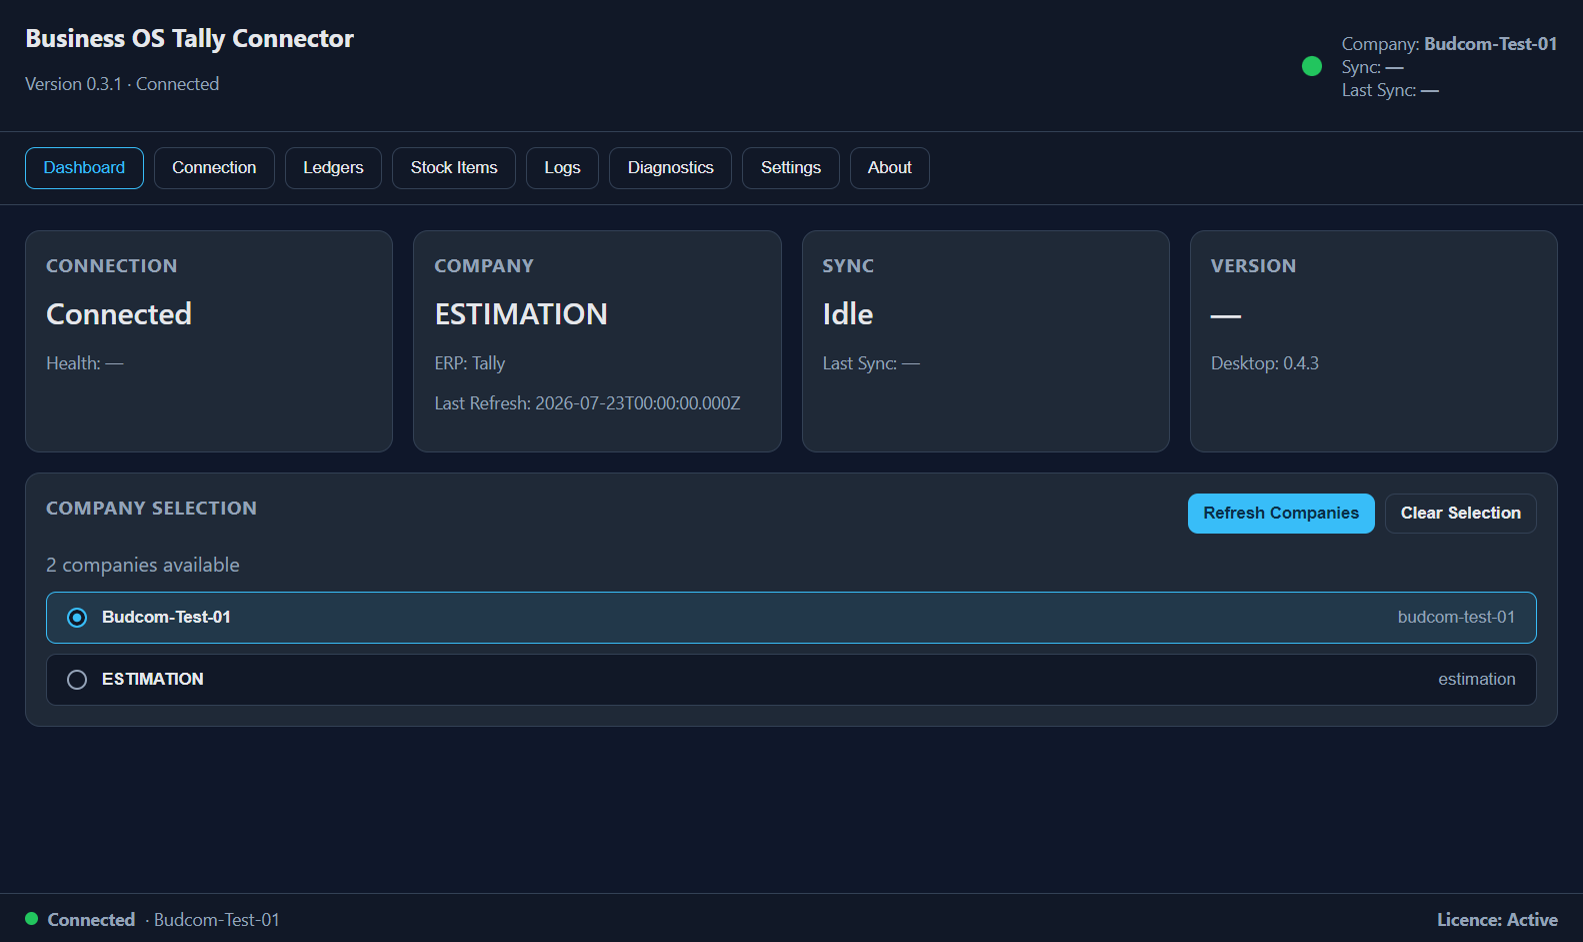
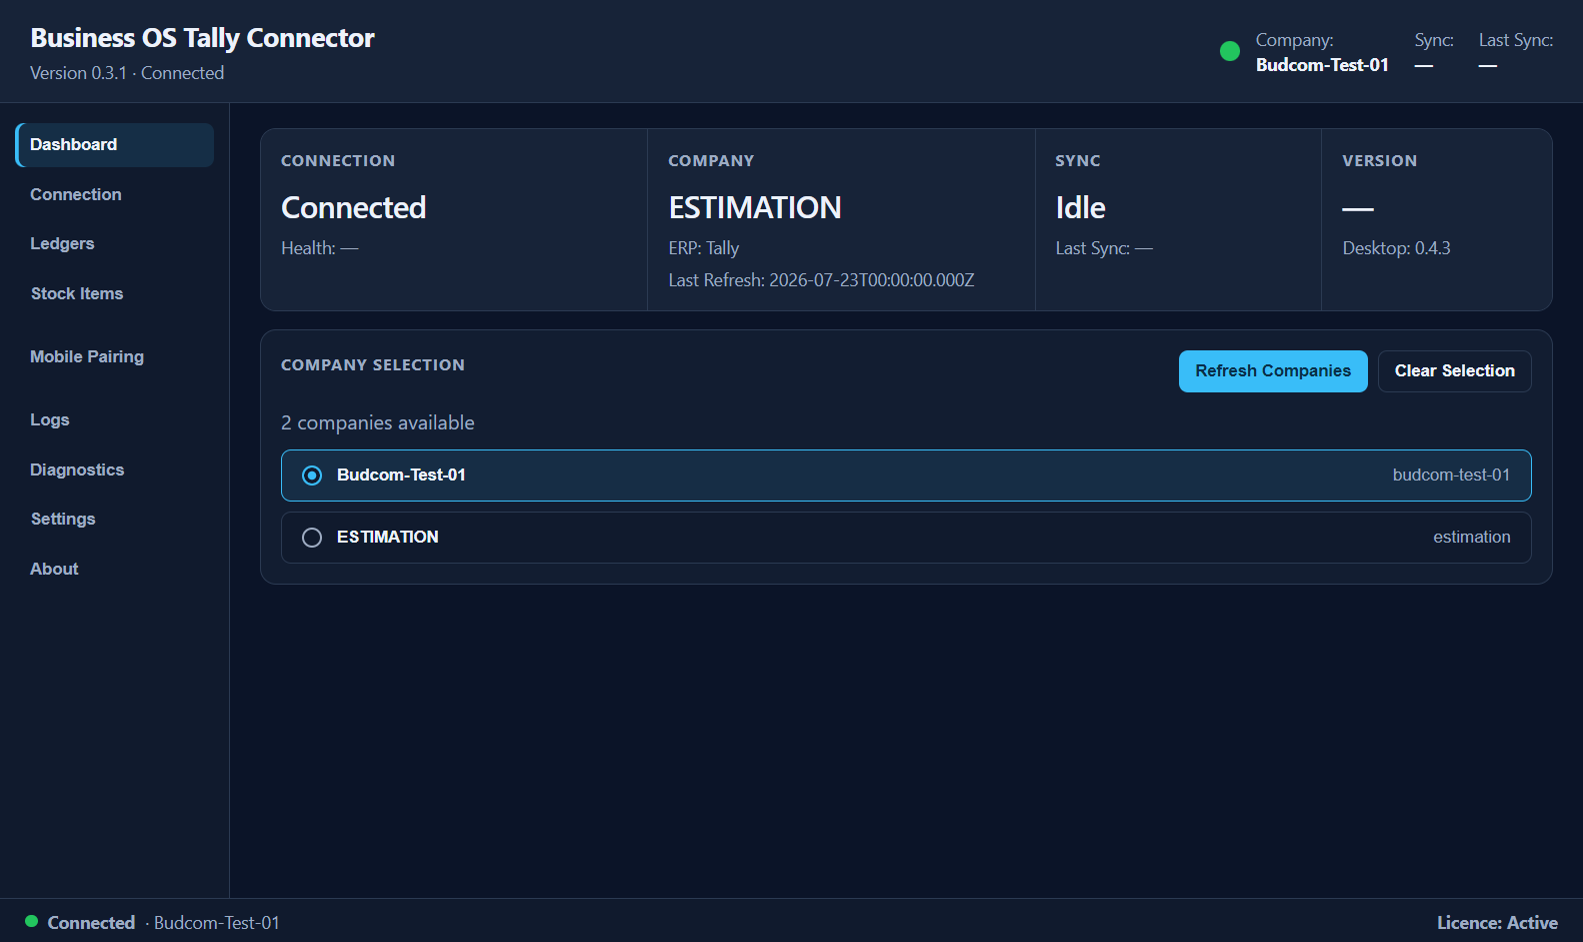
feat(desktop): apply approved BUDCOM visual language

diff --git a/apps/budcom_desktop/src/renderer/styles/main.css b/apps/budcom_desktop/src/renderer/styles/main.css
@@ -687,3 +687,169 @@ body {
   margin-top: 1rem;
   flex-wrap: wrap;
 }
+
+/* ---- continuity.17: approved BUDCOM visual language, adapted for Windows ---- */
+:root {
+  --bg: #0b1428;
+  --surface: #101a2d;
+  --card: #172338;
+  --card-quiet: #121d31;
+  --text: #edf2fb;
+  --muted: #9eacc3;
+  --accent: #39bdf8;
+  --accent-soft: rgba(57, 189, 248, 0.12);
+  --border: #2b3a52;
+}
+
+body { min-width: 800px; }
+
+.app-shell {
+  grid-template-columns: 184px minmax(0, 1fr);
+  grid-template-rows: auto minmax(0, 1fr) 36px;
+}
+
+.app-header {
+  grid-column: 1 / -1;
+  min-height: 82px;
+  padding: 0.9rem 1.5rem;
+  align-items: center;
+  background: #172338;
+}
+
+.brand h1 {
+  font-size: 1.35rem;
+  font-weight: 700;
+  letter-spacing: -0.015em;
+}
+
+.subtitle { margin: 0.3rem 0 0; }
+
+.header-status { gap: 0.8rem; }
+.header-meta {
+  display: grid;
+  grid-template-columns: repeat(3, auto);
+  gap: 0.25rem 1.25rem;
+  align-items: center;
+}
+.header-meta div { display: grid; gap: 0.1rem; }
+.header-meta div::first-line { color: var(--muted); }
+.header-meta strong { color: var(--text); }
+
+.top-nav {
+  grid-column: 1;
+  grid-row: 2;
+  min-height: 0;
+  overflow-y: auto;
+  flex-direction: column;
+  gap: 0.25rem;
+  padding: 1rem 0.75rem;
+  border-right: 1px solid var(--border);
+  border-bottom: 0;
+  background: var(--surface);
+}
+
+.nav-btn {
+  width: 100%;
+  padding: 0.62rem 0.75rem;
+  border: 0;
+  border-radius: 0.45rem;
+  color: var(--muted);
+  text-align: left;
+  font-weight: 600;
+}
+.nav-btn.active,
+.nav-btn:hover {
+  color: var(--text);
+  background: var(--accent-soft);
+  box-shadow: inset 3px 0 0 var(--accent);
+}
+.nav-btn:nth-of-type(5),
+.nav-btn:nth-of-type(6) { margin-top: 0.65rem; }
+
+.app-main {
+  grid-column: 2;
+  grid-row: 2;
+  padding: 1.25rem 1.5rem 1.75rem;
+}
+
+.app-footer {
+  grid-column: 1 / -1;
+  grid-row: 3;
+  height: 36px;
+  padding: 0 1.25rem;
+}
+
+.card-grid {
+  grid-template-columns: 1.35fr 1.35fr 1fr 0.8fr;
+  gap: 0;
+  border: 1px solid var(--border);
+  border-radius: 0.8rem;
+  overflow: hidden;
+  background: var(--card);
+}
+
+.card {
+  min-width: 0;
+  min-height: 126px;
+  border: 0;
+  border-right: 1px solid var(--border);
+  border-radius: 0;
+  background: var(--card);
+}
+.card:last-child { border-right: 0; }
+.card h2, .panel h2 {
+  font-size: 0.78rem;
+  letter-spacing: 0.08em;
+}
+.card-value {
+  font-size: 1.55rem;
+  letter-spacing: -0.02em;
+}
+.card-meta { margin: 0.45rem 0 0; }
+
+.panel {
+  border-radius: 0.8rem;
+  background: var(--card-quiet);
+}
+.company-panel { margin-top: 0.9rem; }
+
+.action-btn {
+  min-height: 34px;
+  border-radius: 0.45rem;
+  padding: 0.42rem 0.8rem;
+}
+.action-btn:hover:not(:disabled) { filter: brightness(1.08); }
+.action-btn:focus-visible,
+.nav-btn:focus-visible,
+input:focus-visible,
+select:focus-visible,
+summary:focus-visible {
+  outline: 2px solid var(--accent);
+  outline-offset: 2px;
+}
+
+.company-item,
+.ledger-row,
+.ledger-stats-grid div,
+.sync-progress-panel,
+.pairing-device-row,
+.pairing-session {
+  background: var(--surface);
+}
+.company-radio { box-shadow: inset 0 0 0 3px var(--surface); }
+
+.storage-gate-overlay { background: rgba(5, 11, 24, 0.9); }
+.storage-gate-panel {
+  border-radius: 0.8rem;
+  box-shadow: 0 24px 70px rgba(0, 0, 0, 0.45);
+}
+.storage-gate-option,
+.storage-gate-drive-picker { background: var(--card); }
+
+@media (max-width: 1050px) {
+  .app-shell { grid-template-columns: 156px minmax(0, 1fr); }
+  .header-meta { grid-template-columns: repeat(2, auto); }
+  .card-grid { grid-template-columns: repeat(2, minmax(0, 1fr)); }
+  .card:nth-child(2) { border-right: 0; }
+  .card:nth-child(-n + 2) { border-bottom: 1px solid var(--border); }
+}
